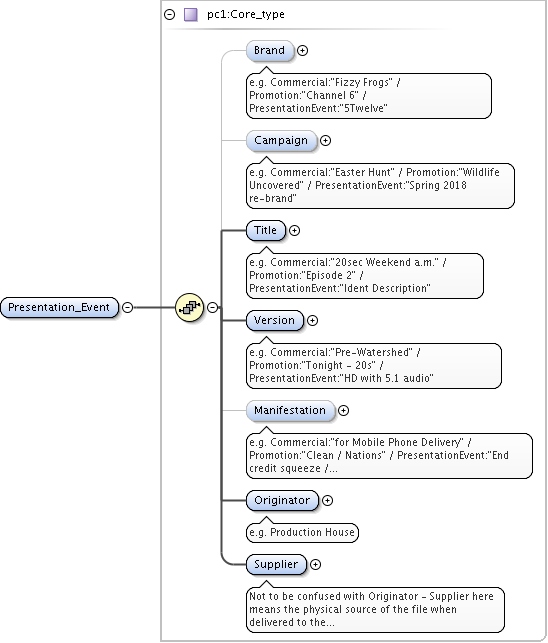
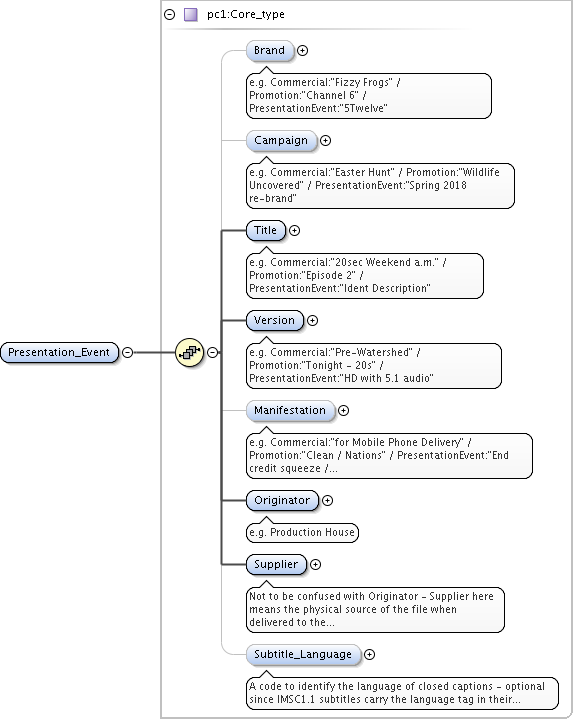
Add subtitles language code to DM

diff --git a/include/specification_data_views/vm-1274-user.virt.ch.bbc.co.uk_c064c30/block/DM_Commercials_Promos/artefacts/DM_Commercials_Promos.html b/include/specification_data_views/vm-1274-user.virt.ch.bbc.co.uk_c064c30/block/DM_Commercials_Promos/artefacts/DM_Commercials_Promos.html
@@ -60,6 +60,7 @@ var diagramBoxes= new Array('diagram_Commercials_Promos_DM',
 				'diagram_Core_type_Manifestation', 
 				'diagram_Core_type_Originator', 
 				'diagram_Core_type_Supplier', 
+				'diagram_Core_type_Subtitle_Language', 
 				'diagram_Advert_type_Advertiser', 
 				'diagram_Commercials_Promos_DomainSpecific_DM_Sponsorship', 
 				'diagram_Commercials_Promos_DomainSpecific_DM_Infomercial', 
@@ -120,6 +121,7 @@ var annotationBoxes= new Array('annotations_Identifiers',
 				'annotations_Core_type_Manifestation', 
 				'annotations_Core_type_Originator', 
 				'annotations_Core_type_Supplier', 
+				'annotations_Core_type_Subtitle_Language', 
 				'annotations_Advert_type_Advertiser', 
 				'annotations_In_Vision_Access_Services_Open_Captions_Present', 
 				'annotations_Open_Captions_type_Caption_Language', 
@@ -1082,8 +1084,9 @@ var annotationBoxes= new Array('annotations_Identifiers',
                                  <area alt="DM_Commercials_Promos.tmp#Core_type_Manifestation" href="DM_Commercials_Promos.html#Core_type_Manifestation" coords="222,440,325,464" />
                                  <area alt="DM_Commercials_Promos.tmp#Core_type_Originator" href="DM_Commercials_Promos.html#Core_type_Originator" coords="222,530,309,554" />
                                  <area alt="DM_Commercials_Promos.tmp#Core_type_Supplier" href="DM_Commercials_Promos.html#Core_type_Supplier" coords="222,594,297,618" />
+                                 <area alt="DM_Commercials_Promos.tmp#Core_type_Subtitle_Language" href="DM_Commercials_Promos.html#Core_type_Subtitle_Language" coords="222,684,351,708" />
                                  <area alt="DM_Commercials_Promos.tmp#Core_type" href="DM_Commercials_Promos.html#Core_type" coords="140,43,361,65" />
-                                 <area alt="DM_Commercials_Promos.tmp#Advert_type_Advertiser" href="DM_Commercials_Promos.html#Advert_type_Advertiser" coords="208,695,295,719" />
+                                 <area alt="DM_Commercials_Promos.tmp#Advert_type_Advertiser" href="DM_Commercials_Promos.html#Advert_type_Advertiser" coords="208,772,295,796" />
                                  <area alt="DM_Commercials_Promos.tmp#Advert_type" href="DM_Commercials_Promos.html#Advert_type" coords="126,3,265,25" /></map></div>
                         </td>
                      </tr>
@@ -1104,7 +1107,7 @@ var annotationBoxes= new Array('annotations_Identifiers',
                      </tr>
                      <tr>
                         <td class="firstColumn"><b>Children</b></td>
-                        <td><b><a href="DM_Commercials_Promos.html#Advert_type_Advertiser" target="_self" title="http://vm-1274-user.virt.ch.bbc.co.uk/as/block/DM_Commercials_Promos_DomainSpecific/">pc1:Advertiser</a></b>, <b><a href="DM_Commercials_Promos.html#Core_type_Brand" target="_self" title="http://vm-1274-user.virt.ch.bbc.co.uk/as/block/DM_Commercials_Promos_DomainSpecific/">pc1:Brand</a></b>, <b><a href="DM_Commercials_Promos.html#Core_type_Campaign" target="_self" title="http://vm-1274-user.virt.ch.bbc.co.uk/as/block/DM_Commercials_Promos_DomainSpecific/">pc1:Campaign</a></b>, <b><a href="DM_Commercials_Promos.html#Core_type_Manifestation" target="_self" title="http://vm-1274-user.virt.ch.bbc.co.uk/as/block/DM_Commercials_Promos_DomainSpecific/">pc1:Manifestation</a></b>, <b><a href="DM_Commercials_Promos.html#Core_type_Originator" target="_self" title="http://vm-1274-user.virt.ch.bbc.co.uk/as/block/DM_Commercials_Promos_DomainSpecific/">pc1:Originator</a></b>, <b><a href="DM_Commercials_Promos.html#Core_type_Supplier" target="_self" title="http://vm-1274-user.virt.ch.bbc.co.uk/as/block/DM_Commercials_Promos_DomainSpecific/">pc1:Supplier</a></b>, <b><a href="DM_Commercials_Promos.html#Core_type_Title" target="_self" title="http://vm-1274-user.virt.ch.bbc.co.uk/as/block/DM_Commercials_Promos_DomainSpecific/">pc1:Title</a></b>, <b><a href="DM_Commercials_Promos.html#Core_type_Version" target="_self" title="http://vm-1274-user.virt.ch.bbc.co.uk/as/block/DM_Commercials_Promos_DomainSpecific/">pc1:Version</a></b></td>
+                        <td><b><a href="DM_Commercials_Promos.html#Advert_type_Advertiser" target="_self" title="http://vm-1274-user.virt.ch.bbc.co.uk/as/block/DM_Commercials_Promos_DomainSpecific/">pc1:Advertiser</a></b>, <b><a href="DM_Commercials_Promos.html#Core_type_Brand" target="_self" title="http://vm-1274-user.virt.ch.bbc.co.uk/as/block/DM_Commercials_Promos_DomainSpecific/">pc1:Brand</a></b>, <b><a href="DM_Commercials_Promos.html#Core_type_Campaign" target="_self" title="http://vm-1274-user.virt.ch.bbc.co.uk/as/block/DM_Commercials_Promos_DomainSpecific/">pc1:Campaign</a></b>, <b><a href="DM_Commercials_Promos.html#Core_type_Manifestation" target="_self" title="http://vm-1274-user.virt.ch.bbc.co.uk/as/block/DM_Commercials_Promos_DomainSpecific/">pc1:Manifestation</a></b>, <b><a href="DM_Commercials_Promos.html#Core_type_Originator" target="_self" title="http://vm-1274-user.virt.ch.bbc.co.uk/as/block/DM_Commercials_Promos_DomainSpecific/">pc1:Originator</a></b>, <b><a href="DM_Commercials_Promos.html#Core_type_Subtitle_Language" target="_self" title="http://vm-1274-user.virt.ch.bbc.co.uk/as/block/DM_Commercials_Promos_DomainSpecific/">pc1:Subtitle_Language</a></b>, <b><a href="DM_Commercials_Promos.html#Core_type_Supplier" target="_self" title="http://vm-1274-user.virt.ch.bbc.co.uk/as/block/DM_Commercials_Promos_DomainSpecific/">pc1:Supplier</a></b>, <b><a href="DM_Commercials_Promos.html#Core_type_Title" target="_self" title="http://vm-1274-user.virt.ch.bbc.co.uk/as/block/DM_Commercials_Promos_DomainSpecific/">pc1:Title</a></b>, <b><a href="DM_Commercials_Promos.html#Core_type_Version" target="_self" title="http://vm-1274-user.virt.ch.bbc.co.uk/as/block/DM_Commercials_Promos_DomainSpecific/">pc1:Version</a></b></td>
                      </tr>
                   </tbody>
                </table>
@@ -1682,6 +1685,61 @@ var annotationBoxes= new Array('annotations_Identifiers',
             <td class="rt_cornerBottomRight"></td>
          </tr>
       </table>
+      <div class="toTop"><a href="#INDEX"> [ top ] </a></div><a id="Core_type_Subtitle_Language"></a><div class="componentTitle">Element <span class="qname"><b><a href="DM_Commercials_Promos.html#Core_type" target="_self" title="http://vm-1274-user.virt.ch.bbc.co.uk/as/block/DM_Commercials_Promos_DomainSpecific/">pc1:Core_type</a></b> / pc1:Subtitle_Language</span></div>
+      <table class="rt">
+         <tr>
+            <td class="rt_cornerTopLeft"></td>
+            <td class="rt_lineTop"></td>
+            <td class="rt_cornerTopRight"></td>
+         </tr>
+         <tr>
+            <td class="rt_lineLeft"></td>
+            <td class="rt_content">
+               <table class="component">
+                  <tbody>
+                     <tr>
+                        <td class="firstColumn"><b>Namespace</b></td>
+                        <td>http://vm-1274-user.virt.ch.bbc.co.uk/as/block/DM_Commercials_Promos_DomainSpecific/</td>
+                     </tr>
+                     <tr>
+                        <td class="firstColumn">
+                           <div class="floatLeft"><b>Annotations</b></div>
+                           <div class="floatRight"><input id="button_annotations_Core_type_Subtitle_Language" type="image" src="img/btM.gif" value="-" onclick="switchState('annotations_Core_type_Subtitle_Language');" class="control" /></div>
+                        </td>
+                        <td>
+                           <div id="annotations_Core_type_Subtitle_Language" style="display:block">
+                              <div class="annotation">
+                                 A code to identify the language of closed captions - optional since IMSC1.1 subtitles
+                                 carry the language tag in their own document. Useful for OP-47 subtitles if supported.
+                                 
+                              </div>
+                           </div>
+                        </td>
+                     </tr>
+                     <tr>
+                        <td class="firstColumn">
+                           <div class="floatLeft"><b>Diagram</b></div>
+                           <div class="floatRight"><input id="button_diagram_Core_type_Subtitle_Language" type="image" src="img/btM.gif" value="-" onclick="switchState('diagram_Core_type_Subtitle_Language');" class="control" /></div>
+                        </td>
+                        <td class="diagram">
+                           <div id="diagram_Core_type_Subtitle_Language" style="display:block"><img alt="Diagram" border="0" src="img/DM_Commercials_Promos_DomainSpecific_xsd_Element_pc1_Subtitle_Language.png" usemap="#DM_Commercials_Promos_DomainSpecific_xsd_Element_pc1_Subtitle_Language" /><map name="DM_Commercials_Promos_DomainSpecific_xsd_Element_pc1_Subtitle_Language" id="DM_Commercials_Promos_DomainSpecific_xsd_Element_pc1_Subtitle_Language"></map></div>
+                        </td>
+                     </tr>
+                     <tr>
+                        <td class="firstColumn"><b>Type</b></td>
+                        <td><b>cmn:BCP47_language_tag</b></td>
+                     </tr>
+                  </tbody>
+               </table>
+            </td>
+            <td class="rt_lineRight"></td>
+         </tr>
+         <tr>
+            <td class="rt_cornerBottomLeft"></td>
+            <td class="rt_lineBottom"></td>
+            <td class="rt_cornerBottomRight"></td>
+         </tr>
+      </table>
       <div class="toTop"><a href="#INDEX"> [ top ] </a></div><a id="Advert_type_Advertiser"></a><div class="componentTitle">Element <span class="qname"><b><a href="DM_Commercials_Promos.html#Advert_type" target="_self" title="http://vm-1274-user.virt.ch.bbc.co.uk/as/block/DM_Commercials_Promos_DomainSpecific/">pc1:Advert_type</a></b> / pc1:Advertiser</span></div>
       <table class="rt">
          <tr>
@@ -1792,8 +1850,9 @@ var annotationBoxes= new Array('annotations_Identifiers',
                                  <area alt="DM_Commercials_Promos.tmp#Core_type_Manifestation" href="DM_Commercials_Promos.html#Core_type_Manifestation" coords="226,440,329,464" />
                                  <area alt="DM_Commercials_Promos.tmp#Core_type_Originator" href="DM_Commercials_Promos.html#Core_type_Originator" coords="226,530,313,554" />
                                  <area alt="DM_Commercials_Promos.tmp#Core_type_Supplier" href="DM_Commercials_Promos.html#Core_type_Supplier" coords="226,594,301,618" />
+                                 <area alt="DM_Commercials_Promos.tmp#Core_type_Subtitle_Language" href="DM_Commercials_Promos.html#Core_type_Subtitle_Language" coords="226,684,355,708" />
                                  <area alt="DM_Commercials_Promos.tmp#Core_type" href="DM_Commercials_Promos.html#Core_type" coords="144,43,365,65" />
-                                 <area alt="DM_Commercials_Promos.tmp#Advert_type_Advertiser" href="DM_Commercials_Promos.html#Advert_type_Advertiser" coords="212,695,299,719" />
+                                 <area alt="DM_Commercials_Promos.tmp#Advert_type_Advertiser" href="DM_Commercials_Promos.html#Advert_type_Advertiser" coords="212,772,299,796" />
                                  <area alt="DM_Commercials_Promos.tmp#Advert_type" href="DM_Commercials_Promos.html#Advert_type" coords="130,3,269,25" /></map></div>
                         </td>
                      </tr>
@@ -1814,7 +1873,7 @@ var annotationBoxes= new Array('annotations_Identifiers',
                      </tr>
                      <tr>
                         <td class="firstColumn"><b>Children</b></td>
-                        <td><b><a href="DM_Commercials_Promos.html#Advert_type_Advertiser" target="_self" title="http://vm-1274-user.virt.ch.bbc.co.uk/as/block/DM_Commercials_Promos_DomainSpecific/">pc1:Advertiser</a></b>, <b><a href="DM_Commercials_Promos.html#Core_type_Brand" target="_self" title="http://vm-1274-user.virt.ch.bbc.co.uk/as/block/DM_Commercials_Promos_DomainSpecific/">pc1:Brand</a></b>, <b><a href="DM_Commercials_Promos.html#Core_type_Campaign" target="_self" title="http://vm-1274-user.virt.ch.bbc.co.uk/as/block/DM_Commercials_Promos_DomainSpecific/">pc1:Campaign</a></b>, <b><a href="DM_Commercials_Promos.html#Core_type_Manifestation" target="_self" title="http://vm-1274-user.virt.ch.bbc.co.uk/as/block/DM_Commercials_Promos_DomainSpecific/">pc1:Manifestation</a></b>, <b><a href="DM_Commercials_Promos.html#Core_type_Originator" target="_self" title="http://vm-1274-user.virt.ch.bbc.co.uk/as/block/DM_Commercials_Promos_DomainSpecific/">pc1:Originator</a></b>, <b><a href="DM_Commercials_Promos.html#Core_type_Supplier" target="_self" title="http://vm-1274-user.virt.ch.bbc.co.uk/as/block/DM_Commercials_Promos_DomainSpecific/">pc1:Supplier</a></b>, <b><a href="DM_Commercials_Promos.html#Core_type_Title" target="_self" title="http://vm-1274-user.virt.ch.bbc.co.uk/as/block/DM_Commercials_Promos_DomainSpecific/">pc1:Title</a></b>, <b><a href="DM_Commercials_Promos.html#Core_type_Version" target="_self" title="http://vm-1274-user.virt.ch.bbc.co.uk/as/block/DM_Commercials_Promos_DomainSpecific/">pc1:Version</a></b></td>
+                        <td><b><a href="DM_Commercials_Promos.html#Advert_type_Advertiser" target="_self" title="http://vm-1274-user.virt.ch.bbc.co.uk/as/block/DM_Commercials_Promos_DomainSpecific/">pc1:Advertiser</a></b>, <b><a href="DM_Commercials_Promos.html#Core_type_Brand" target="_self" title="http://vm-1274-user.virt.ch.bbc.co.uk/as/block/DM_Commercials_Promos_DomainSpecific/">pc1:Brand</a></b>, <b><a href="DM_Commercials_Promos.html#Core_type_Campaign" target="_self" title="http://vm-1274-user.virt.ch.bbc.co.uk/as/block/DM_Commercials_Promos_DomainSpecific/">pc1:Campaign</a></b>, <b><a href="DM_Commercials_Promos.html#Core_type_Manifestation" target="_self" title="http://vm-1274-user.virt.ch.bbc.co.uk/as/block/DM_Commercials_Promos_DomainSpecific/">pc1:Manifestation</a></b>, <b><a href="DM_Commercials_Promos.html#Core_type_Originator" target="_self" title="http://vm-1274-user.virt.ch.bbc.co.uk/as/block/DM_Commercials_Promos_DomainSpecific/">pc1:Originator</a></b>, <b><a href="DM_Commercials_Promos.html#Core_type_Subtitle_Language" target="_self" title="http://vm-1274-user.virt.ch.bbc.co.uk/as/block/DM_Commercials_Promos_DomainSpecific/">pc1:Subtitle_Language</a></b>, <b><a href="DM_Commercials_Promos.html#Core_type_Supplier" target="_self" title="http://vm-1274-user.virt.ch.bbc.co.uk/as/block/DM_Commercials_Promos_DomainSpecific/">pc1:Supplier</a></b>, <b><a href="DM_Commercials_Promos.html#Core_type_Title" target="_self" title="http://vm-1274-user.virt.ch.bbc.co.uk/as/block/DM_Commercials_Promos_DomainSpecific/">pc1:Title</a></b>, <b><a href="DM_Commercials_Promos.html#Core_type_Version" target="_self" title="http://vm-1274-user.virt.ch.bbc.co.uk/as/block/DM_Commercials_Promos_DomainSpecific/">pc1:Version</a></b></td>
                      </tr>
                   </tbody>
                </table>
@@ -1857,8 +1916,9 @@ var annotationBoxes= new Array('annotations_Identifiers',
                                  <area alt="DM_Commercials_Promos.tmp#Core_type_Manifestation" href="DM_Commercials_Promos.html#Core_type_Manifestation" coords="218,440,321,464" />
                                  <area alt="DM_Commercials_Promos.tmp#Core_type_Originator" href="DM_Commercials_Promos.html#Core_type_Originator" coords="218,530,305,554" />
                                  <area alt="DM_Commercials_Promos.tmp#Core_type_Supplier" href="DM_Commercials_Promos.html#Core_type_Supplier" coords="218,594,293,618" />
+                                 <area alt="DM_Commercials_Promos.tmp#Core_type_Subtitle_Language" href="DM_Commercials_Promos.html#Core_type_Subtitle_Language" coords="218,684,347,708" />
                                  <area alt="DM_Commercials_Promos.tmp#Core_type" href="DM_Commercials_Promos.html#Core_type" coords="136,43,357,65" />
-                                 <area alt="DM_Commercials_Promos.tmp#Advert_type_Advertiser" href="DM_Commercials_Promos.html#Advert_type_Advertiser" coords="204,695,291,719" />
+                                 <area alt="DM_Commercials_Promos.tmp#Advert_type_Advertiser" href="DM_Commercials_Promos.html#Advert_type_Advertiser" coords="204,772,291,796" />
                                  <area alt="DM_Commercials_Promos.tmp#Advert_type" href="DM_Commercials_Promos.html#Advert_type" coords="122,3,261,25" /></map></div>
                         </td>
                      </tr>
@@ -1879,7 +1939,7 @@ var annotationBoxes= new Array('annotations_Identifiers',
                      </tr>
                      <tr>
                         <td class="firstColumn"><b>Children</b></td>
-                        <td><b><a href="DM_Commercials_Promos.html#Advert_type_Advertiser" target="_self" title="http://vm-1274-user.virt.ch.bbc.co.uk/as/block/DM_Commercials_Promos_DomainSpecific/">pc1:Advertiser</a></b>, <b><a href="DM_Commercials_Promos.html#Core_type_Brand" target="_self" title="http://vm-1274-user.virt.ch.bbc.co.uk/as/block/DM_Commercials_Promos_DomainSpecific/">pc1:Brand</a></b>, <b><a href="DM_Commercials_Promos.html#Core_type_Campaign" target="_self" title="http://vm-1274-user.virt.ch.bbc.co.uk/as/block/DM_Commercials_Promos_DomainSpecific/">pc1:Campaign</a></b>, <b><a href="DM_Commercials_Promos.html#Core_type_Manifestation" target="_self" title="http://vm-1274-user.virt.ch.bbc.co.uk/as/block/DM_Commercials_Promos_DomainSpecific/">pc1:Manifestation</a></b>, <b><a href="DM_Commercials_Promos.html#Core_type_Originator" target="_self" title="http://vm-1274-user.virt.ch.bbc.co.uk/as/block/DM_Commercials_Promos_DomainSpecific/">pc1:Originator</a></b>, <b><a href="DM_Commercials_Promos.html#Core_type_Supplier" target="_self" title="http://vm-1274-user.virt.ch.bbc.co.uk/as/block/DM_Commercials_Promos_DomainSpecific/">pc1:Supplier</a></b>, <b><a href="DM_Commercials_Promos.html#Core_type_Title" target="_self" title="http://vm-1274-user.virt.ch.bbc.co.uk/as/block/DM_Commercials_Promos_DomainSpecific/">pc1:Title</a></b>, <b><a href="DM_Commercials_Promos.html#Core_type_Version" target="_self" title="http://vm-1274-user.virt.ch.bbc.co.uk/as/block/DM_Commercials_Promos_DomainSpecific/">pc1:Version</a></b></td>
+                        <td><b><a href="DM_Commercials_Promos.html#Advert_type_Advertiser" target="_self" title="http://vm-1274-user.virt.ch.bbc.co.uk/as/block/DM_Commercials_Promos_DomainSpecific/">pc1:Advertiser</a></b>, <b><a href="DM_Commercials_Promos.html#Core_type_Brand" target="_self" title="http://vm-1274-user.virt.ch.bbc.co.uk/as/block/DM_Commercials_Promos_DomainSpecific/">pc1:Brand</a></b>, <b><a href="DM_Commercials_Promos.html#Core_type_Campaign" target="_self" title="http://vm-1274-user.virt.ch.bbc.co.uk/as/block/DM_Commercials_Promos_DomainSpecific/">pc1:Campaign</a></b>, <b><a href="DM_Commercials_Promos.html#Core_type_Manifestation" target="_self" title="http://vm-1274-user.virt.ch.bbc.co.uk/as/block/DM_Commercials_Promos_DomainSpecific/">pc1:Manifestation</a></b>, <b><a href="DM_Commercials_Promos.html#Core_type_Originator" target="_self" title="http://vm-1274-user.virt.ch.bbc.co.uk/as/block/DM_Commercials_Promos_DomainSpecific/">pc1:Originator</a></b>, <b><a href="DM_Commercials_Promos.html#Core_type_Subtitle_Language" target="_self" title="http://vm-1274-user.virt.ch.bbc.co.uk/as/block/DM_Commercials_Promos_DomainSpecific/">pc1:Subtitle_Language</a></b>, <b><a href="DM_Commercials_Promos.html#Core_type_Supplier" target="_self" title="http://vm-1274-user.virt.ch.bbc.co.uk/as/block/DM_Commercials_Promos_DomainSpecific/">pc1:Supplier</a></b>, <b><a href="DM_Commercials_Promos.html#Core_type_Title" target="_self" title="http://vm-1274-user.virt.ch.bbc.co.uk/as/block/DM_Commercials_Promos_DomainSpecific/">pc1:Title</a></b>, <b><a href="DM_Commercials_Promos.html#Core_type_Version" target="_self" title="http://vm-1274-user.virt.ch.bbc.co.uk/as/block/DM_Commercials_Promos_DomainSpecific/">pc1:Version</a></b></td>
                      </tr>
                   </tbody>
                </table>
@@ -1922,6 +1982,7 @@ var annotationBoxes= new Array('annotations_Identifiers',
                                  <area alt="DM_Commercials_Promos.tmp#Core_type_Manifestation" href="DM_Commercials_Promos.html#Core_type_Manifestation" coords="246,400,349,424" />
                                  <area alt="DM_Commercials_Promos.tmp#Core_type_Originator" href="DM_Commercials_Promos.html#Core_type_Originator" coords="246,490,333,514" />
                                  <area alt="DM_Commercials_Promos.tmp#Core_type_Supplier" href="DM_Commercials_Promos.html#Core_type_Supplier" coords="246,554,321,578" />
+                                 <area alt="DM_Commercials_Promos.tmp#Core_type_Subtitle_Language" href="DM_Commercials_Promos.html#Core_type_Subtitle_Language" coords="246,644,375,668" />
                                  <area alt="DM_Commercials_Promos.tmp#Core_type" href="DM_Commercials_Promos.html#Core_type" coords="164,3,293,25" /></map></div>
                         </td>
                      </tr>
@@ -1931,7 +1992,7 @@ var annotationBoxes= new Array('annotations_Identifiers',
                      </tr>
                      <tr>
                         <td class="firstColumn"><b>Children</b></td>
-                        <td><b><a href="DM_Commercials_Promos.html#Core_type_Brand" target="_self" title="http://vm-1274-user.virt.ch.bbc.co.uk/as/block/DM_Commercials_Promos_DomainSpecific/">pc1:Brand</a></b>, <b><a href="DM_Commercials_Promos.html#Core_type_Campaign" target="_self" title="http://vm-1274-user.virt.ch.bbc.co.uk/as/block/DM_Commercials_Promos_DomainSpecific/">pc1:Campaign</a></b>, <b><a href="DM_Commercials_Promos.html#Core_type_Manifestation" target="_self" title="http://vm-1274-user.virt.ch.bbc.co.uk/as/block/DM_Commercials_Promos_DomainSpecific/">pc1:Manifestation</a></b>, <b><a href="DM_Commercials_Promos.html#Core_type_Originator" target="_self" title="http://vm-1274-user.virt.ch.bbc.co.uk/as/block/DM_Commercials_Promos_DomainSpecific/">pc1:Originator</a></b>, <b><a href="DM_Commercials_Promos.html#Core_type_Supplier" target="_self" title="http://vm-1274-user.virt.ch.bbc.co.uk/as/block/DM_Commercials_Promos_DomainSpecific/">pc1:Supplier</a></b>, <b><a href="DM_Commercials_Promos.html#Core_type_Title" target="_self" title="http://vm-1274-user.virt.ch.bbc.co.uk/as/block/DM_Commercials_Promos_DomainSpecific/">pc1:Title</a></b>, <b><a href="DM_Commercials_Promos.html#Core_type_Version" target="_self" title="http://vm-1274-user.virt.ch.bbc.co.uk/as/block/DM_Commercials_Promos_DomainSpecific/">pc1:Version</a></b></td>
+                        <td><b><a href="DM_Commercials_Promos.html#Core_type_Brand" target="_self" title="http://vm-1274-user.virt.ch.bbc.co.uk/as/block/DM_Commercials_Promos_DomainSpecific/">pc1:Brand</a></b>, <b><a href="DM_Commercials_Promos.html#Core_type_Campaign" target="_self" title="http://vm-1274-user.virt.ch.bbc.co.uk/as/block/DM_Commercials_Promos_DomainSpecific/">pc1:Campaign</a></b>, <b><a href="DM_Commercials_Promos.html#Core_type_Manifestation" target="_self" title="http://vm-1274-user.virt.ch.bbc.co.uk/as/block/DM_Commercials_Promos_DomainSpecific/">pc1:Manifestation</a></b>, <b><a href="DM_Commercials_Promos.html#Core_type_Originator" target="_self" title="http://vm-1274-user.virt.ch.bbc.co.uk/as/block/DM_Commercials_Promos_DomainSpecific/">pc1:Originator</a></b>, <b><a href="DM_Commercials_Promos.html#Core_type_Subtitle_Language" target="_self" title="http://vm-1274-user.virt.ch.bbc.co.uk/as/block/DM_Commercials_Promos_DomainSpecific/">pc1:Subtitle_Language</a></b>, <b><a href="DM_Commercials_Promos.html#Core_type_Supplier" target="_self" title="http://vm-1274-user.virt.ch.bbc.co.uk/as/block/DM_Commercials_Promos_DomainSpecific/">pc1:Supplier</a></b>, <b><a href="DM_Commercials_Promos.html#Core_type_Title" target="_self" title="http://vm-1274-user.virt.ch.bbc.co.uk/as/block/DM_Commercials_Promos_DomainSpecific/">pc1:Title</a></b>, <b><a href="DM_Commercials_Promos.html#Core_type_Version" target="_self" title="http://vm-1274-user.virt.ch.bbc.co.uk/as/block/DM_Commercials_Promos_DomainSpecific/">pc1:Version</a></b></td>
                      </tr>
                   </tbody>
                </table>
@@ -1974,6 +2035,7 @@ var annotationBoxes= new Array('annotations_Identifiers',
                                  <area alt="DM_Commercials_Promos.tmp#Core_type_Manifestation" href="DM_Commercials_Promos.html#Core_type_Manifestation" coords="200,400,303,424" />
                                  <area alt="DM_Commercials_Promos.tmp#Core_type_Originator" href="DM_Commercials_Promos.html#Core_type_Originator" coords="200,490,287,514" />
                                  <area alt="DM_Commercials_Promos.tmp#Core_type_Supplier" href="DM_Commercials_Promos.html#Core_type_Supplier" coords="200,554,275,578" />
+                                 <area alt="DM_Commercials_Promos.tmp#Core_type_Subtitle_Language" href="DM_Commercials_Promos.html#Core_type_Subtitle_Language" coords="200,644,329,668" />
                                  <area alt="DM_Commercials_Promos.tmp#Core_type" href="DM_Commercials_Promos.html#Core_type" coords="118,3,247,25" /></map></div>
                         </td>
                      </tr>
@@ -1983,7 +2045,7 @@ var annotationBoxes= new Array('annotations_Identifiers',
                      </tr>
                      <tr>
                         <td class="firstColumn"><b>Children</b></td>
-                        <td><b><a href="DM_Commercials_Promos.html#Core_type_Brand" target="_self" title="http://vm-1274-user.virt.ch.bbc.co.uk/as/block/DM_Commercials_Promos_DomainSpecific/">pc1:Brand</a></b>, <b><a href="DM_Commercials_Promos.html#Core_type_Campaign" target="_self" title="http://vm-1274-user.virt.ch.bbc.co.uk/as/block/DM_Commercials_Promos_DomainSpecific/">pc1:Campaign</a></b>, <b><a href="DM_Commercials_Promos.html#Core_type_Manifestation" target="_self" title="http://vm-1274-user.virt.ch.bbc.co.uk/as/block/DM_Commercials_Promos_DomainSpecific/">pc1:Manifestation</a></b>, <b><a href="DM_Commercials_Promos.html#Core_type_Originator" target="_self" title="http://vm-1274-user.virt.ch.bbc.co.uk/as/block/DM_Commercials_Promos_DomainSpecific/">pc1:Originator</a></b>, <b><a href="DM_Commercials_Promos.html#Core_type_Supplier" target="_self" title="http://vm-1274-user.virt.ch.bbc.co.uk/as/block/DM_Commercials_Promos_DomainSpecific/">pc1:Supplier</a></b>, <b><a href="DM_Commercials_Promos.html#Core_type_Title" target="_self" title="http://vm-1274-user.virt.ch.bbc.co.uk/as/block/DM_Commercials_Promos_DomainSpecific/">pc1:Title</a></b>, <b><a href="DM_Commercials_Promos.html#Core_type_Version" target="_self" title="http://vm-1274-user.virt.ch.bbc.co.uk/as/block/DM_Commercials_Promos_DomainSpecific/">pc1:Version</a></b></td>
+                        <td><b><a href="DM_Commercials_Promos.html#Core_type_Brand" target="_self" title="http://vm-1274-user.virt.ch.bbc.co.uk/as/block/DM_Commercials_Promos_DomainSpecific/">pc1:Brand</a></b>, <b><a href="DM_Commercials_Promos.html#Core_type_Campaign" target="_self" title="http://vm-1274-user.virt.ch.bbc.co.uk/as/block/DM_Commercials_Promos_DomainSpecific/">pc1:Campaign</a></b>, <b><a href="DM_Commercials_Promos.html#Core_type_Manifestation" target="_self" title="http://vm-1274-user.virt.ch.bbc.co.uk/as/block/DM_Commercials_Promos_DomainSpecific/">pc1:Manifestation</a></b>, <b><a href="DM_Commercials_Promos.html#Core_type_Originator" target="_self" title="http://vm-1274-user.virt.ch.bbc.co.uk/as/block/DM_Commercials_Promos_DomainSpecific/">pc1:Originator</a></b>, <b><a href="DM_Commercials_Promos.html#Core_type_Subtitle_Language" target="_self" title="http://vm-1274-user.virt.ch.bbc.co.uk/as/block/DM_Commercials_Promos_DomainSpecific/">pc1:Subtitle_Language</a></b>, <b><a href="DM_Commercials_Promos.html#Core_type_Supplier" target="_self" title="http://vm-1274-user.virt.ch.bbc.co.uk/as/block/DM_Commercials_Promos_DomainSpecific/">pc1:Supplier</a></b>, <b><a href="DM_Commercials_Promos.html#Core_type_Title" target="_self" title="http://vm-1274-user.virt.ch.bbc.co.uk/as/block/DM_Commercials_Promos_DomainSpecific/">pc1:Title</a></b>, <b><a href="DM_Commercials_Promos.html#Core_type_Version" target="_self" title="http://vm-1274-user.virt.ch.bbc.co.uk/as/block/DM_Commercials_Promos_DomainSpecific/">pc1:Version</a></b></td>
                      </tr>
                   </tbody>
                </table>
@@ -4362,8 +4424,9 @@ var annotationBoxes= new Array('annotations_Identifiers',
                                  <area alt="DM_Commercials_Promos.tmp#Core_type_Manifestation" href="DM_Commercials_Promos.html#Core_type_Manifestation" coords="233,400,336,424" />
                                  <area alt="DM_Commercials_Promos.tmp#Core_type_Originator" href="DM_Commercials_Promos.html#Core_type_Originator" coords="233,490,320,514" />
                                  <area alt="DM_Commercials_Promos.tmp#Core_type_Supplier" href="DM_Commercials_Promos.html#Core_type_Supplier" coords="233,554,308,578" />
+                                 <area alt="DM_Commercials_Promos.tmp#Core_type_Subtitle_Language" href="DM_Commercials_Promos.html#Core_type_Subtitle_Language" coords="233,644,362,668" />
                                  <area alt="DM_Commercials_Promos.tmp#Core_type" href="DM_Commercials_Promos.html#Core_type" coords="151,3,372,25" />
-                                 <area alt="DM_Commercials_Promos.tmp#Advert_type_Advertiser" href="DM_Commercials_Promos.html#Advert_type_Advertiser" coords="219,655,306,679" /></map></div>
+                                 <area alt="DM_Commercials_Promos.tmp#Advert_type_Advertiser" href="DM_Commercials_Promos.html#Advert_type_Advertiser" coords="219,732,306,756" /></map></div>
                         </td>
                      </tr>
                      <tr>
@@ -4399,7 +4462,7 @@ var annotationBoxes= new Array('annotations_Identifiers',
                      </tr>
                      <tr>
                         <td class="firstColumn"><b>Children</b></td>
-                        <td><b><a href="DM_Commercials_Promos.html#Advert_type_Advertiser" target="_self" title="http://vm-1274-user.virt.ch.bbc.co.uk/as/block/DM_Commercials_Promos_DomainSpecific/">pc1:Advertiser</a></b>, <b><a href="DM_Commercials_Promos.html#Core_type_Brand" target="_self" title="http://vm-1274-user.virt.ch.bbc.co.uk/as/block/DM_Commercials_Promos_DomainSpecific/">pc1:Brand</a></b>, <b><a href="DM_Commercials_Promos.html#Core_type_Campaign" target="_self" title="http://vm-1274-user.virt.ch.bbc.co.uk/as/block/DM_Commercials_Promos_DomainSpecific/">pc1:Campaign</a></b>, <b><a href="DM_Commercials_Promos.html#Core_type_Manifestation" target="_self" title="http://vm-1274-user.virt.ch.bbc.co.uk/as/block/DM_Commercials_Promos_DomainSpecific/">pc1:Manifestation</a></b>, <b><a href="DM_Commercials_Promos.html#Core_type_Originator" target="_self" title="http://vm-1274-user.virt.ch.bbc.co.uk/as/block/DM_Commercials_Promos_DomainSpecific/">pc1:Originator</a></b>, <b><a href="DM_Commercials_Promos.html#Core_type_Supplier" target="_self" title="http://vm-1274-user.virt.ch.bbc.co.uk/as/block/DM_Commercials_Promos_DomainSpecific/">pc1:Supplier</a></b>, <b><a href="DM_Commercials_Promos.html#Core_type_Title" target="_self" title="http://vm-1274-user.virt.ch.bbc.co.uk/as/block/DM_Commercials_Promos_DomainSpecific/">pc1:Title</a></b>, <b><a href="DM_Commercials_Promos.html#Core_type_Version" target="_self" title="http://vm-1274-user.virt.ch.bbc.co.uk/as/block/DM_Commercials_Promos_DomainSpecific/">pc1:Version</a></b></td>
+                        <td><b><a href="DM_Commercials_Promos.html#Advert_type_Advertiser" target="_self" title="http://vm-1274-user.virt.ch.bbc.co.uk/as/block/DM_Commercials_Promos_DomainSpecific/">pc1:Advertiser</a></b>, <b><a href="DM_Commercials_Promos.html#Core_type_Brand" target="_self" title="http://vm-1274-user.virt.ch.bbc.co.uk/as/block/DM_Commercials_Promos_DomainSpecific/">pc1:Brand</a></b>, <b><a href="DM_Commercials_Promos.html#Core_type_Campaign" target="_self" title="http://vm-1274-user.virt.ch.bbc.co.uk/as/block/DM_Commercials_Promos_DomainSpecific/">pc1:Campaign</a></b>, <b><a href="DM_Commercials_Promos.html#Core_type_Manifestation" target="_self" title="http://vm-1274-user.virt.ch.bbc.co.uk/as/block/DM_Commercials_Promos_DomainSpecific/">pc1:Manifestation</a></b>, <b><a href="DM_Commercials_Promos.html#Core_type_Originator" target="_self" title="http://vm-1274-user.virt.ch.bbc.co.uk/as/block/DM_Commercials_Promos_DomainSpecific/">pc1:Originator</a></b>, <b><a href="DM_Commercials_Promos.html#Core_type_Subtitle_Language" target="_self" title="http://vm-1274-user.virt.ch.bbc.co.uk/as/block/DM_Commercials_Promos_DomainSpecific/">pc1:Subtitle_Language</a></b>, <b><a href="DM_Commercials_Promos.html#Core_type_Supplier" target="_self" title="http://vm-1274-user.virt.ch.bbc.co.uk/as/block/DM_Commercials_Promos_DomainSpecific/">pc1:Supplier</a></b>, <b><a href="DM_Commercials_Promos.html#Core_type_Title" target="_self" title="http://vm-1274-user.virt.ch.bbc.co.uk/as/block/DM_Commercials_Promos_DomainSpecific/">pc1:Title</a></b>, <b><a href="DM_Commercials_Promos.html#Core_type_Version" target="_self" title="http://vm-1274-user.virt.ch.bbc.co.uk/as/block/DM_Commercials_Promos_DomainSpecific/">pc1:Version</a></b></td>
                      </tr>
                   </tbody>
                </table>
@@ -4441,7 +4504,8 @@ var annotationBoxes= new Array('annotations_Identifiers',
                                  <area alt="DM_Commercials_Promos.tmp#Core_type_Version" href="DM_Commercials_Promos.html#Core_type_Version" coords="209,270,281,294" />
                                  <area alt="DM_Commercials_Promos.tmp#Core_type_Manifestation" href="DM_Commercials_Promos.html#Core_type_Manifestation" coords="209,360,312,384" />
                                  <area alt="DM_Commercials_Promos.tmp#Core_type_Originator" href="DM_Commercials_Promos.html#Core_type_Originator" coords="209,450,296,474" />
-                                 <area alt="DM_Commercials_Promos.tmp#Core_type_Supplier" href="DM_Commercials_Promos.html#Core_type_Supplier" coords="209,514,284,538" /></map></div>
+                                 <area alt="DM_Commercials_Promos.tmp#Core_type_Supplier" href="DM_Commercials_Promos.html#Core_type_Supplier" coords="209,514,284,538" />
+                                 <area alt="DM_Commercials_Promos.tmp#Core_type_Subtitle_Language" href="DM_Commercials_Promos.html#Core_type_Subtitle_Language" coords="209,604,338,628" /></map></div>
                         </td>
                      </tr>
                      <tr>
@@ -4466,7 +4530,7 @@ var annotationBoxes= new Array('annotations_Identifiers',
                      </tr>
                      <tr>
                         <td class="firstColumn"><b>Children</b></td>
-                        <td><b><a href="DM_Commercials_Promos.html#Core_type_Brand" target="_self" title="http://vm-1274-user.virt.ch.bbc.co.uk/as/block/DM_Commercials_Promos_DomainSpecific/">pc1:Brand</a></b>, <b><a href="DM_Commercials_Promos.html#Core_type_Campaign" target="_self" title="http://vm-1274-user.virt.ch.bbc.co.uk/as/block/DM_Commercials_Promos_DomainSpecific/">pc1:Campaign</a></b>, <b><a href="DM_Commercials_Promos.html#Core_type_Manifestation" target="_self" title="http://vm-1274-user.virt.ch.bbc.co.uk/as/block/DM_Commercials_Promos_DomainSpecific/">pc1:Manifestation</a></b>, <b><a href="DM_Commercials_Promos.html#Core_type_Originator" target="_self" title="http://vm-1274-user.virt.ch.bbc.co.uk/as/block/DM_Commercials_Promos_DomainSpecific/">pc1:Originator</a></b>, <b><a href="DM_Commercials_Promos.html#Core_type_Supplier" target="_self" title="http://vm-1274-user.virt.ch.bbc.co.uk/as/block/DM_Commercials_Promos_DomainSpecific/">pc1:Supplier</a></b>, <b><a href="DM_Commercials_Promos.html#Core_type_Title" target="_self" title="http://vm-1274-user.virt.ch.bbc.co.uk/as/block/DM_Commercials_Promos_DomainSpecific/">pc1:Title</a></b>, <b><a href="DM_Commercials_Promos.html#Core_type_Version" target="_self" title="http://vm-1274-user.virt.ch.bbc.co.uk/as/block/DM_Commercials_Promos_DomainSpecific/">pc1:Version</a></b></td>
+                        <td><b><a href="DM_Commercials_Promos.html#Core_type_Brand" target="_self" title="http://vm-1274-user.virt.ch.bbc.co.uk/as/block/DM_Commercials_Promos_DomainSpecific/">pc1:Brand</a></b>, <b><a href="DM_Commercials_Promos.html#Core_type_Campaign" target="_self" title="http://vm-1274-user.virt.ch.bbc.co.uk/as/block/DM_Commercials_Promos_DomainSpecific/">pc1:Campaign</a></b>, <b><a href="DM_Commercials_Promos.html#Core_type_Manifestation" target="_self" title="http://vm-1274-user.virt.ch.bbc.co.uk/as/block/DM_Commercials_Promos_DomainSpecific/">pc1:Manifestation</a></b>, <b><a href="DM_Commercials_Promos.html#Core_type_Originator" target="_self" title="http://vm-1274-user.virt.ch.bbc.co.uk/as/block/DM_Commercials_Promos_DomainSpecific/">pc1:Originator</a></b>, <b><a href="DM_Commercials_Promos.html#Core_type_Subtitle_Language" target="_self" title="http://vm-1274-user.virt.ch.bbc.co.uk/as/block/DM_Commercials_Promos_DomainSpecific/">pc1:Subtitle_Language</a></b>, <b><a href="DM_Commercials_Promos.html#Core_type_Supplier" target="_self" title="http://vm-1274-user.virt.ch.bbc.co.uk/as/block/DM_Commercials_Promos_DomainSpecific/">pc1:Supplier</a></b>, <b><a href="DM_Commercials_Promos.html#Core_type_Title" target="_self" title="http://vm-1274-user.virt.ch.bbc.co.uk/as/block/DM_Commercials_Promos_DomainSpecific/">pc1:Title</a></b>, <b><a href="DM_Commercials_Promos.html#Core_type_Version" target="_self" title="http://vm-1274-user.virt.ch.bbc.co.uk/as/block/DM_Commercials_Promos_DomainSpecific/">pc1:Version</a></b></td>
                      </tr>
                   </tbody>
                </table>
